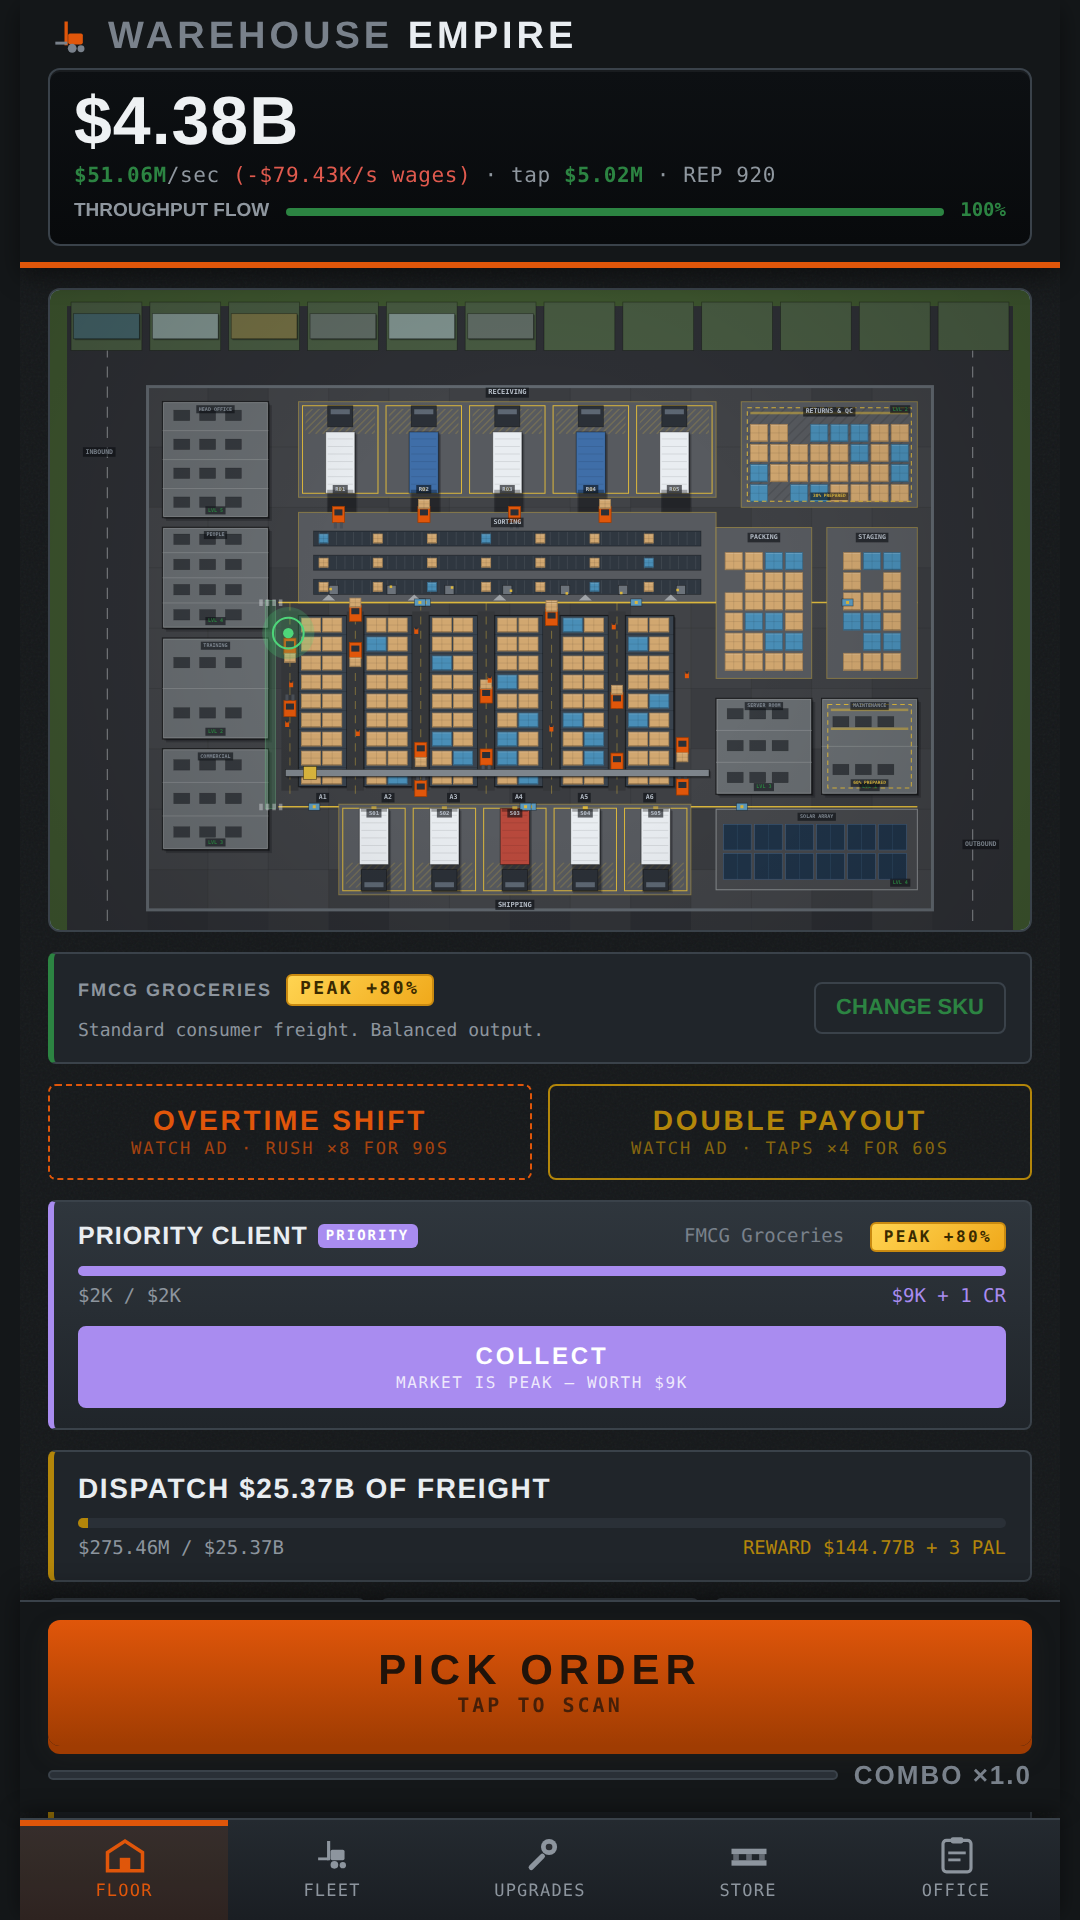
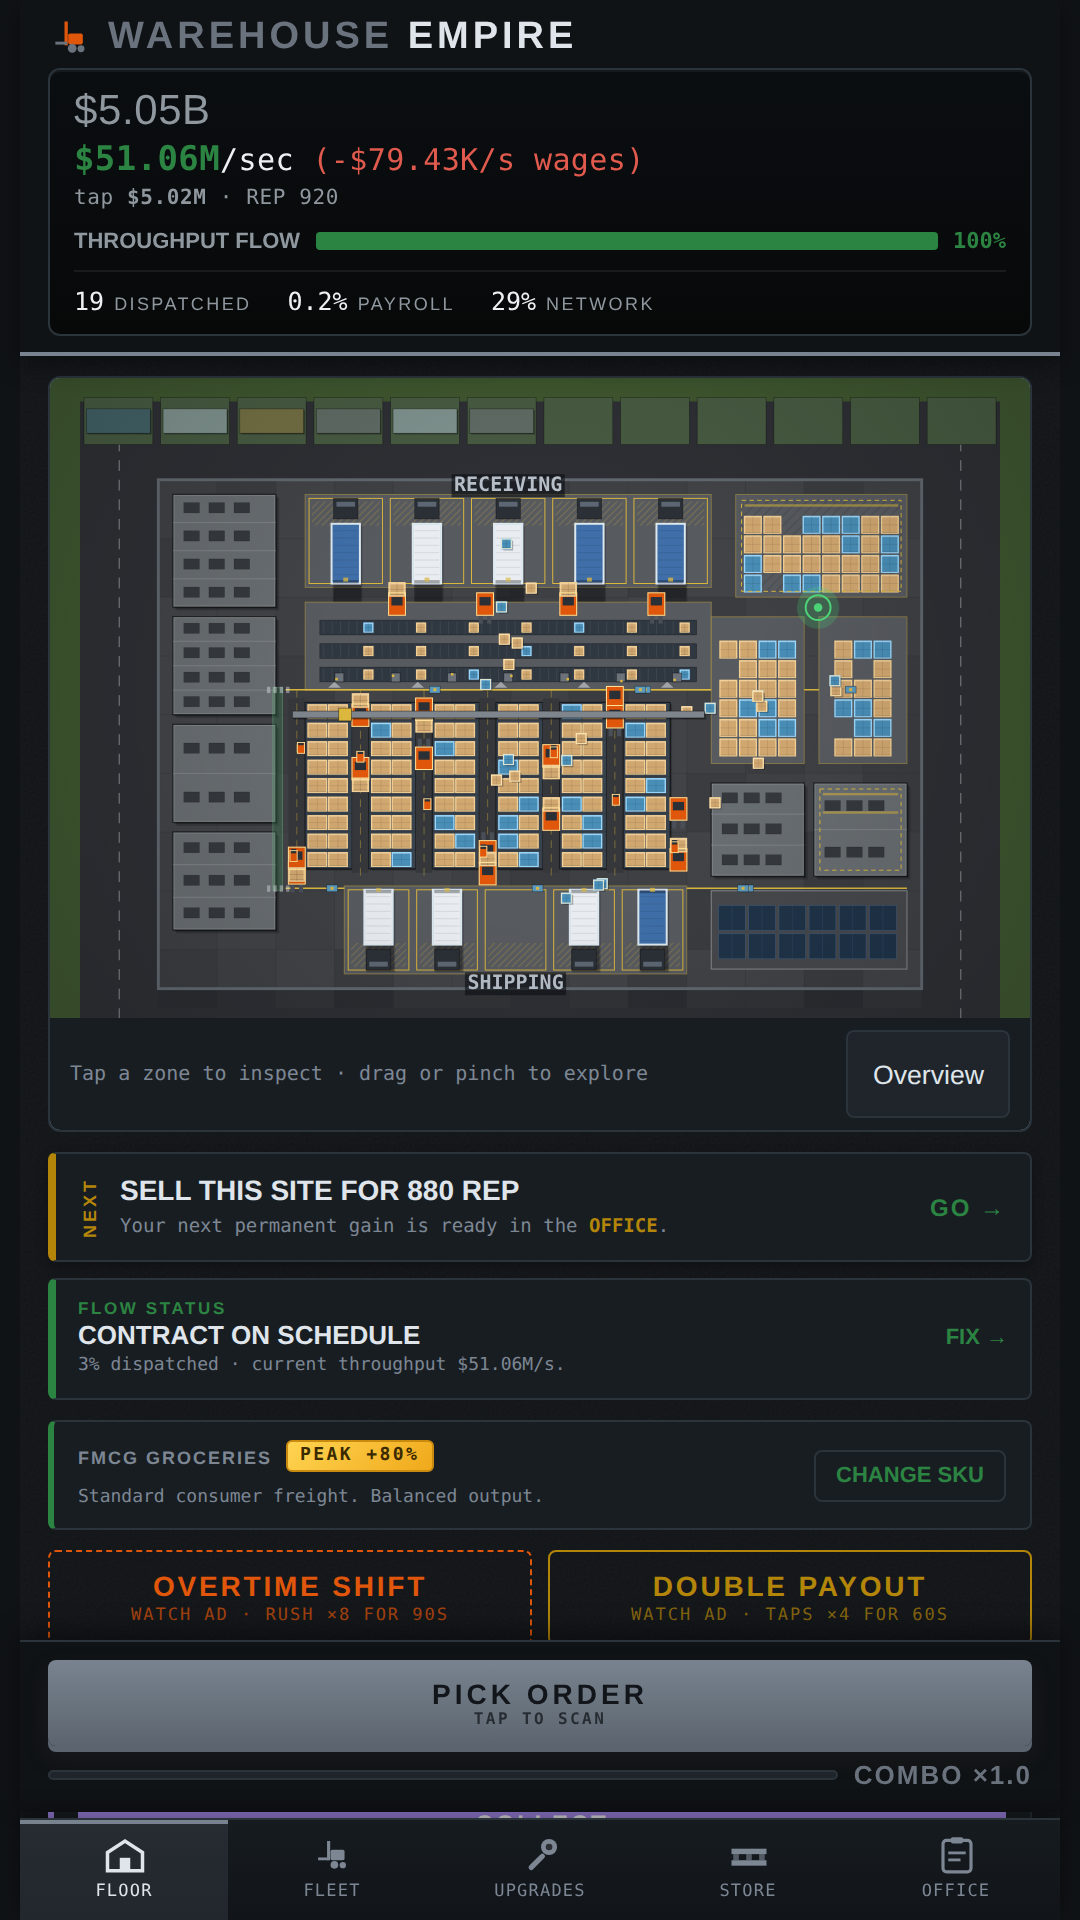
Recapture the store screenshots, and fix what the first one exposed
PAYROLL READ 0%

The hero shot came back reading "0% PAYROLL". A late site earns fifty million a
second against a wage bill in the tens of thousands, which is 0.16% -- and an
integer percentage rounds that to nothing, so the reading goes dead for the whole
late game while looking like a fault. On a store screenshot.

One decimal under ten percent, "<0.1%" under that. It reads 0.4% on the same
site now. There is an assertion that a late-game site cannot report zero payroll,
so it cannot come back.

Worth noting how this was found: no test caught it, because every test seeded a
site where the share was a comfortable integer. The screenshot pass caught it,
which is the second time this release that photographing the game has found
something the suite could not see.

EIGHT NEW SCREENSHOTS

The 3.7 set showed hi-vis chrome on every frame, on a plan with no freight moving
-- so all eight photographed the two things this release changes, as absent.
Replaced rather than patched.

The set mirrors the sections the listing actually claims, and the order is chosen
for Play's thumbnail row: the first three have to differ in colour, because the
canvas is a fifth of a portrait frame and adjacent shots otherwise read as the
same picture. General DC, then Port containers, then Dangerous Goods at night.

Two new ones earn their place. 04-rush is a rush contract behind schedule with
Priority Dispatch offered, which is the only part of the game with real time
[…]

diff --git a/tests/test-ui.js b/tests/test-ui.js
@@ -101,7 +101,7 @@ chk("boost tag empty when nothing is active", $("boostTag").innerHTML === "", JS
 {
   s.network = []; s.owned = { picker: 40, trolley: 10 }; s.corp.hr = 0;
   global.render();
-  chk("the strip reports a payroll share", /^\d+%$/.test($("mPayroll").textContent),
+  chk("the strip reports a payroll share", /^(<0\.1|\d+(\.\d)?)%$/.test($("mPayroll").textContent),
       $("mPayroll").textContent);
   const withoutHR = parseInt($("mPayroll").textContent, 10);
   chk("and it is not zero for a site that employs people", withoutHR > 0, withoutHR + "%");
@@ -122,6 +122,15 @@ chk("boost tag empty when nothing is active", $("boostTag").innerHTML === "", JS
       $("mNetWrap").hidden === false && /^\d+%$/.test($("mNetwork").textContent),
       $("mNetwork").textContent);
   s.network = []; s.rep = 0;
+
+  // A store screenshot of a late site read "0% PAYROLL": millions a second against a wage
+  // bill in the tens of thousands rounds to nothing as an integer.
+  s.owned = { picker:118, trolley:96, forklift:74, reach:58, conveyor:41, sorter:27, crane:14, hub:5 };
+  s.lifetime = 6.4e10; s.rep = 920; s.prestiges = 7; global.render();
+  const lateShare = $("mPayroll").textContent;
+  chk("a late site does not report zero payroll", lateShare !== "0%" && lateShare !== "0.0%",
+      lateShare);
+  s.owned = { picker: 40, trolley: 10 }; s.lifetime = 0; s.rep = 0; s.prestiges = 0;
 
   chk("dispatched starts at zero and is a plain count",
       $("mDispatched").textContent === "0", $("mDispatched").textContent);

diff --git a/warehouse-empire-android.html b/warehouse-empire-android.html
@@ -2943,9 +2943,15 @@
     // and the picture cannot disagree. Payroll and Network are shares of figures the
     // economy already computes, and both are invisible anywhere else in the app.
     document.getElementById("mDispatched").textContent = fmt(freightDispatched);
+    // A late site earns millions a second against a wage bill in the tens of thousands, so
+    // an integer percentage rounds to 0% and sits there looking broken for the whole late
+    // game -- which a store screenshot duly caught. One decimal under ten percent keeps it
+    // informative across the entire range the game spans.
     var gross = grossRate();
+    var share = gross > 0 ? currentWages / gross * 100 : 0;
     document.getElementById("mPayroll").textContent =
-      (gross > 0 ? Math.round(currentWages / gross * 100) : 0) + "%";
+      (share > 0 && share < 0.1) ? "<0.1%"
+      : (share < 10 ? share.toFixed(1) : Math.round(share)) + "%";
     var net = networkRate(), tot = totalRate();
     var netWrap = document.getElementById("mNetWrap");
     netWrap.hidden = !(state.network && state.network.length);

diff --git a/docs/store-screenshots/README.md b/docs/store-screenshots/README.md
@@ -1,41 +1,44 @@
-# Play Store screenshots
+# Play Store phone screenshots
 
-Captured from the v25 (3.8) build at `536d938`, so everything shown is in that
-release. 1080x1920, 24-bit RGB PNG, no alpha — inside Play's phone screenshot
-requirements (320–3840px per side, under 8MB each).
+Captured from **4.0 (v27)**. 1080×1920 (9:16), which is Play's phone aspect —
+a 540×960 viewport at deviceScaleFactor 2 hits it exactly, and the app's 520px
+max-width sits inside that on its own background, so the thin side bands read as
+page rather than letterboxing.
 
-The previous set was captured from v20 (2.9) and showed the isometric renderer,
-which no longer exists. Anyone who installed off that listing was being shown a
-different game.
+Play accepts 2–8 phone screenshots. This is eight, and the order matters: Play
+shows the first two or three side by side, and the site canvas is only about a
+fifth of a portrait frame, so **adjacent shots have to differ in colour** to read
+as different at thumbnail size.
 
-| File | Shows |
-|------|-------|
-| `01-site.png` | Distribution Centre: pallet racking, full estate, trucks on both aprons |
-| `02-port.png` | Port Terminal: container stacks, gantry, open water at the quay |
-| `03-night-livery.png` | Dangerous Goods Yard under Night Shift — bunded cells, warm palette |
-| `04-directorship.png` | The Directorship tree, one branch held and another part-bought |
-| `05-network.png` | The Network: six retired sites, each with its specialisation |
-| `06-corporate.png` | The corporate estate, including "% BUILT" progress |
-| `07-fleet.png` | The equipment ladder |
-| `08-manifests.png` | All five manifests, three in different market states, and the changeover a switch costs |
+| | Shows | Listing section |
+|---|---|---|
+| `01-site` | The plan running, freight in transit, new steel chrome | WATCH THE SITE RUN |
+| `02-port` | Port Terminal — containers and open water | FOUR SITES |
+| `03-night-livery` | Dangerous Goods at night on another livery | FOUR SITES |
+| `04-rush` | A rush contract behind schedule, Priority Dispatch offered | RUN FREIGHT AGAINST THE CLOCK |
+| `05-zone` | Sorting inspected, with its equipment counts | WATCH THE SITE RUN |
+| `06-manifests` | All five, in three different market states, two locked | CHOOSE YOUR MANIFEST |
+| `07-fleet` | The eight-tier equipment ladder | CLIMB THE EQUIPMENT LADDER |
+| `08-network` | Retired sites as a managed layer | SELL UP AND BUILD A NETWORK |
 
-Play shows the first two or three in the listing preview, so 01 and 02 lead:
-side by side, tan pallet racking against stacked containers and water makes the
-point that a site is a place rather than a set of multipliers.
+## Why the whole set was replaced
 
-**On ordering.** The canvas is about a fifth of a portrait frame, so adjacent
-shots have to differ in *colour* to read as different at thumbnail size. Cold
-Store is the fourth site and is not here — its layout is the closest to the
-Distribution Centre, and next to 01 the two thumbnails were nearly
-indistinguishable. It lost its slot to the manifests.
+The previous set was captured from 3.7 and every frame showed the hi-vis chrome
+that 4.0 removed, on a plan with no freight moving on it — so all eight
+photographed the two things this release changed, as absent.
 
-These are browser captures rather than device captures. Rendering is identical —
-the app is a WebView — but there is no Android status bar or rounded corner
-mask. Play does not require either.
+## Recapturing
 
-Regenerate with `storeshots37.js` (kept in the working scratchpad, not the
-repo): it seeds a late-game save, forces High quality, gives the site a couple
-of seconds to run so the docks are not caught empty, and walks the tabs at a
-540x960 viewport with deviceScaleFactor 2. It also blocks the analytics endpoint
-outright, so a capture run cannot post events even if the build it is shooting
-is configured.
+`storeshots40.js` in the session scratchpad. Two things it has to get right,
+both learned by getting them wrong:
+
+- **Freight takes about ten seconds to cross the site.** A frame grabbed early
+  catches an empty plan, which photographs the headline feature as missing. The
+  capture waits, and prints the in-flight count so a shot taken on an idle site
+  is obvious rather than silent.
+- **A shot that is deliberately of a modal must not use `clean()`**, which hides
+  every modal including the one being photographed. That is how the 3.7 manifests
+  shot came back as the floor tab.
+
+The run also asserts no page errors and routes Google Analytics to a 204, so a
+capture can never post telemetry even though the committed file has no keys.
